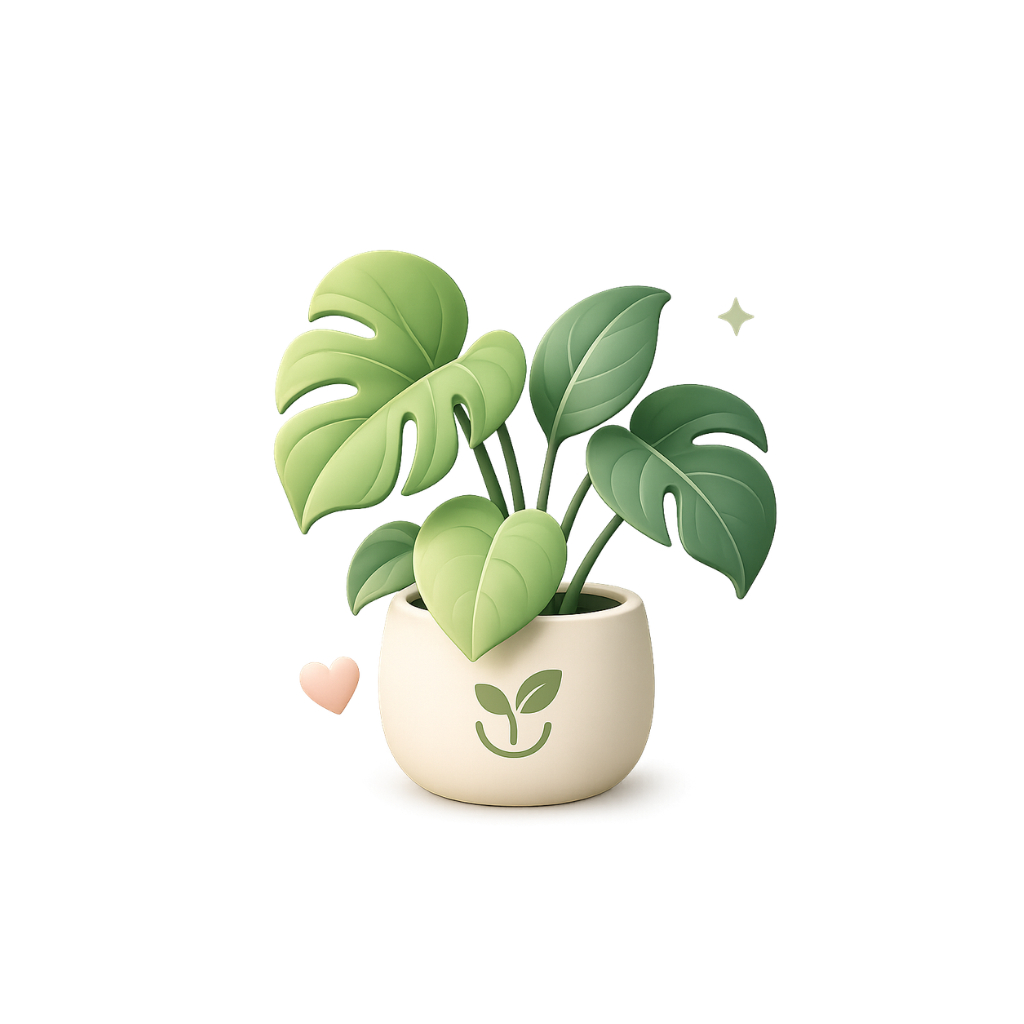
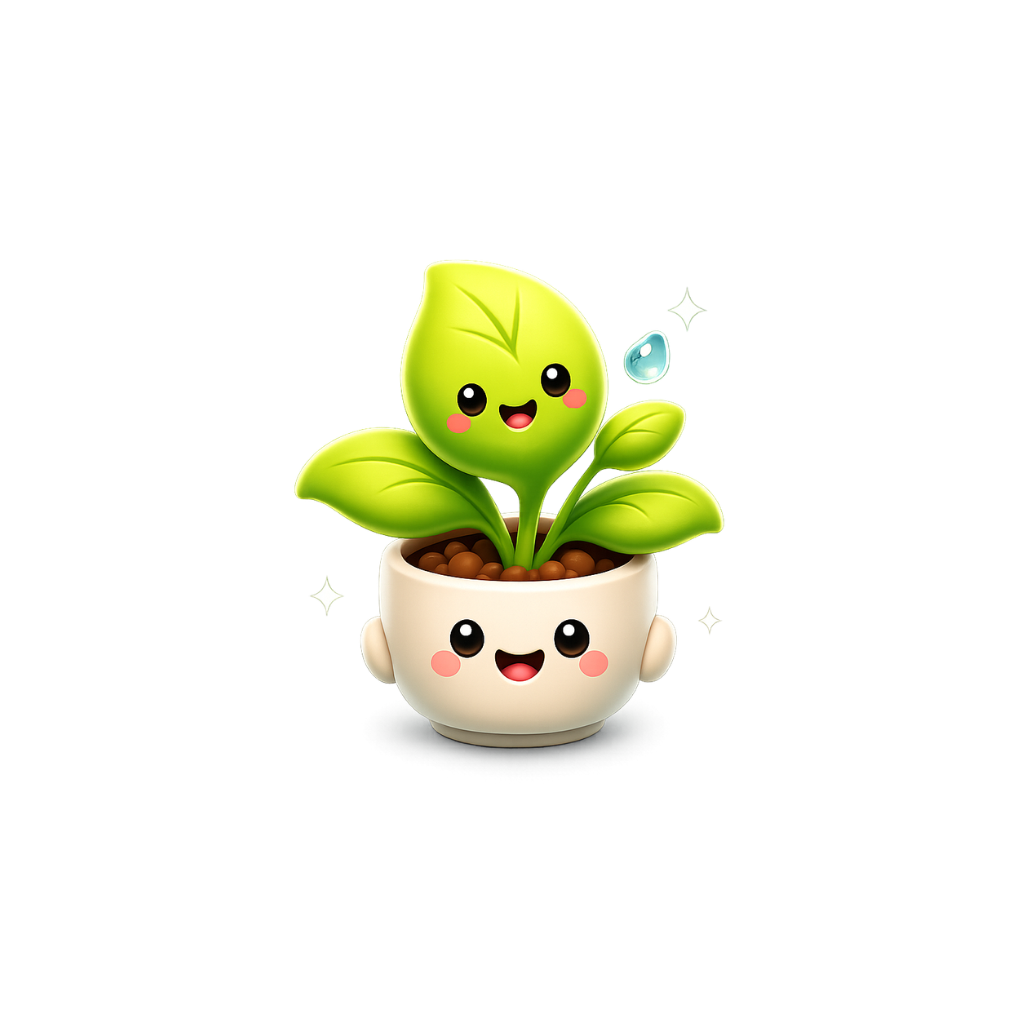
chore: update images and onboarding screens
- Updated existing images for Android and web assets.
- Added new icons and splash images for improved branding.
- Removed OnboardingIllustration component from multiple onboarding screens to streamline the UI.

Changed region(s): [[0.25, 0.2188, 0.7812, 0.8125]]

diff --git a/apps/native/screens/onboarding/finish.tsx b/apps/native/screens/onboarding/finish.tsx
@@ -4,7 +4,6 @@ import { useThemeColor } from "heroui-native";
 import { Text, View } from "react-native";
 
 import { useDatabase } from "@/lib/db";
-import { OnboardingIllustration } from "@/screens/onboarding/_components/onboarding-illustration";
 import { OnboardingShell } from "@/screens/onboarding/_components/onboarding-shell";
 import { useOnboardingStore } from "@/stores/use-onboarding-store";
 
@@ -30,7 +29,6 @@ export function OnboardingFinishScreen() {
           ? "Your first plant is in and its care plan is ready. Open Today to see what's next."
           : "LeafCue is ready whenever you are — add a plant anytime from the Today screen."
       }
-      illustration={<OnboardingIllustration variant="finish" />}
       primaryLabel="Start using LeafCue"
       primaryIcon="arrow-forward-outline"
       onPressPrimary={handleDone}

diff --git a/apps/native/screens/onboarding/room.tsx b/apps/native/screens/onboarding/room.tsx
@@ -13,7 +13,6 @@ import { Text, View } from "react-native";
 import { useDatabase } from "@/lib/db";
 import { createRoom, deleteRoom } from "@/lib/db/repositories";
 import { rooms } from "@/lib/db/schema";
-import { OnboardingIllustration } from "@/screens/onboarding/_components/onboarding-illustration";
 import { OnboardingShell } from "@/screens/onboarding/_components/onboarding-shell";
 
 export function OnboardingRoomScreen() {
@@ -45,7 +44,6 @@ export function OnboardingRoomScreen() {
       step={4}
       title="Where do your plants live?"
       subtitle="Tap to remove rooms you don't need, or add your own. You can edit them later."
-      illustration={<OnboardingIllustration variant="room" />}
       primaryLabel="Looks good"
       primaryIcon="arrow-forward-outline"
       primaryDisabled={!hasRooms}

diff --git a/apps/native/screens/onboarding/privacy.tsx b/apps/native/screens/onboarding/privacy.tsx
@@ -2,7 +2,6 @@ import { Ionicons } from "@expo/vector-icons";
 import { router } from "expo-router";
 import { useThemeColor } from "heroui-native";
 import { Text, View } from "react-native";
-import { OnboardingIllustration } from "@/screens/onboarding/_components/onboarding-illustration";
 import { OnboardingShell } from "@/screens/onboarding/_components/onboarding-shell";
 
 const PROMISES: ReadonlyArray<{
@@ -44,7 +43,6 @@ export function OnboardingPrivacyScreen() {
       step={2}
       title="Private by design"
       subtitle="LeafCue protects your plant care notes the same way it protects you."
-      illustration={<OnboardingIllustration variant="privacy" />}
       primaryLabel="That sounds great"
       primaryIcon="arrow-forward-outline"
       onPressPrimary={() => router.push("/onboarding/quiz")}

diff --git a/apps/native/screens/onboarding/quiz.tsx b/apps/native/screens/onboarding/quiz.tsx
@@ -6,7 +6,6 @@ import { Text, View } from "react-native";
 
 import { useDatabase } from "@/lib/db";
 import type { OnboardingExperience, OnboardingLight } from "@/lib/db/zod";
-import { OnboardingIllustration } from "@/screens/onboarding/_components/onboarding-illustration";
 import { OnboardingShell } from "@/screens/onboarding/_components/onboarding-shell";
 import { useOnboardingStore } from "@/stores/use-onboarding-store";
 
@@ -67,7 +66,6 @@ export function OnboardingQuizScreen() {
       step={3}
       title="Let's make it yours"
       subtitle="A few quick taps so LeafCue can tailor your care plan. No wrong answers."
-      illustration={<OnboardingIllustration variant="track" />}
       primaryLabel="Continue"
       primaryIcon="arrow-forward-outline"
       onPressPrimary={handleContinue}
